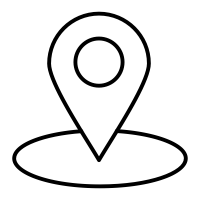
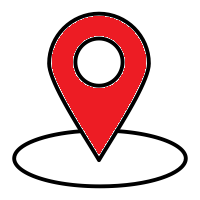
Merker er rigtige farve og nu eler alt andet end Favorites der er permanenter legit!

Changed region(s): [[0.24, 0.06, 0.75, 0.78]]

diff --git a/Danmarkskort/src/main/java/com/example/danmarkskort/MVC/Controller.java b/Danmarkskort/src/main/java/com/example/danmarkskort/MVC/Controller.java
@@ -272,20 +272,22 @@ public class Controller implements Initializable {
 
     /// This metod is used to save the current POI to a map and add it as a menuitem to the POI menubar to give it delete and find adress as options.
     @FXML protected void savePOIToHashMap(){
+        if(startPOI == null){return;}
         String name = addNamePOI.getText();
         favoritePOIs.put(name, startPOI);
-        closePOIMenu();
+        oldPOIs.remove(startPOI);
+        view.addObjectToDraw(startPOI);
 
-        POI tempPOI = startPOI;
+        closePOIMenu();
 
         Menu POIMenuItem = new Menu(name);
         POIMenu.getItems().add(POIMenuItem);
 
         MenuItem deletePOI = new MenuItem("Delete");
         deletePOI.setOnAction(e -> {
+            view.removeObjectToDraw(startPOI);
             favoritePOIs.remove(name);
             POIMenu.getItems().remove(POIMenuItem);
-            //view.removeObjectToDraw(tempPOI);
             view.drawMap();
         });
 
@@ -318,10 +320,8 @@ public class Controller implements Initializable {
 
     //Metode til at fjerne den røde markering på kortet for en POI. virker kun for den POI, der senest er placeret
     @FXML public void removePOIMarker(POI poi){
-        if(startPOI == null){return;}
         //sæt knappen til visible og kald denne metode et sted
         model.removePOI(poi);
-        startPOI=null;
         view.drawMap();
     }
 
@@ -414,6 +414,7 @@ public class Controller implements Initializable {
                 updateSearchText();
             }
             //Removes old POI from the map.
+
             if (oldPOIs.size() > 2) {
                 while (oldPOIs.size() > 2) {
                     POI removed = oldPOIs.remove(0);

diff --git a/Danmarkskort/src/main/java/com/example/danmarkskort/MVC/View.java b/Danmarkskort/src/main/java/com/example/danmarkskort/MVC/View.java
@@ -133,7 +133,9 @@ public class View {
 
     ///Saves the object given as parameter and includes it in {@link #drawMap()}.
     public void addObjectToDraw(MapObject mapObject) {
-        extraDrawObjects.add(mapObject);
+        if (mapObject != null) {
+            extraDrawObjects.add(mapObject);
+        }
     }
 
     /// Removes the object given as parameter
